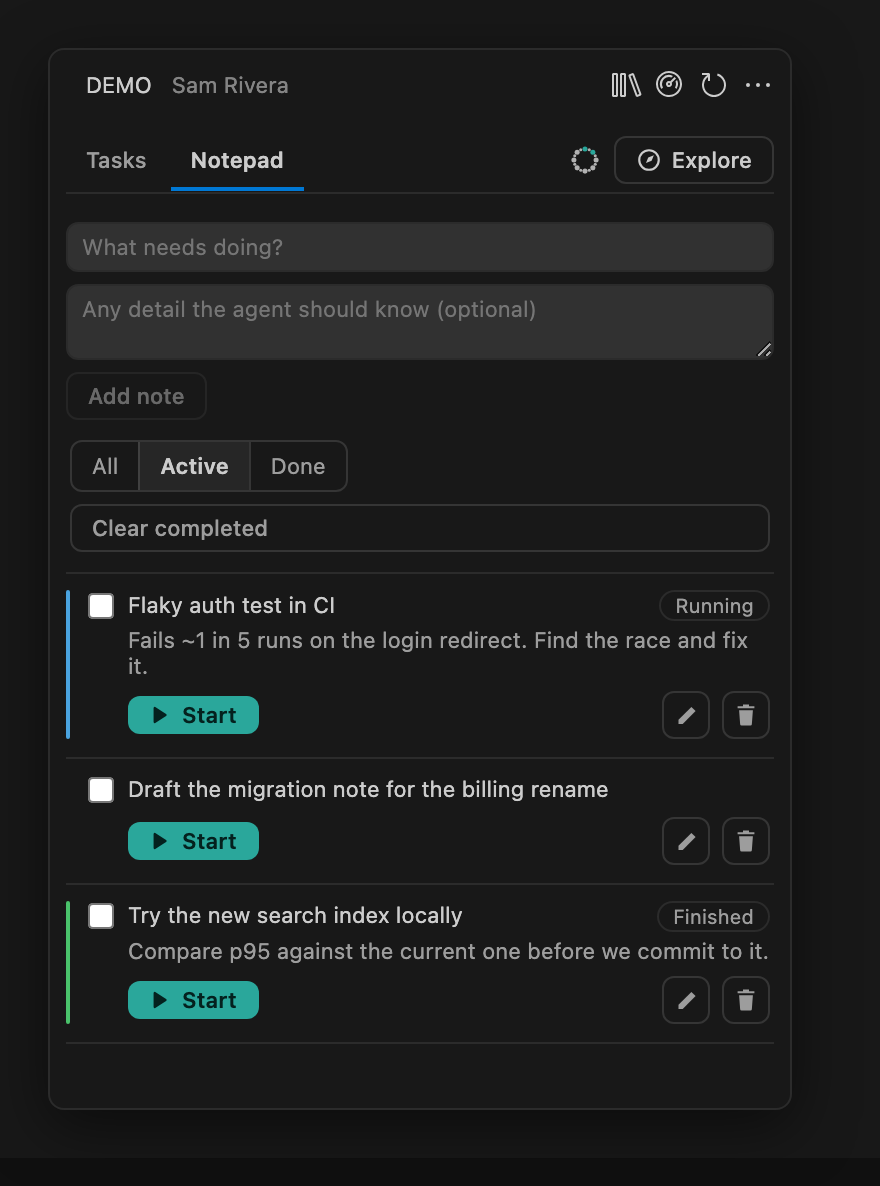
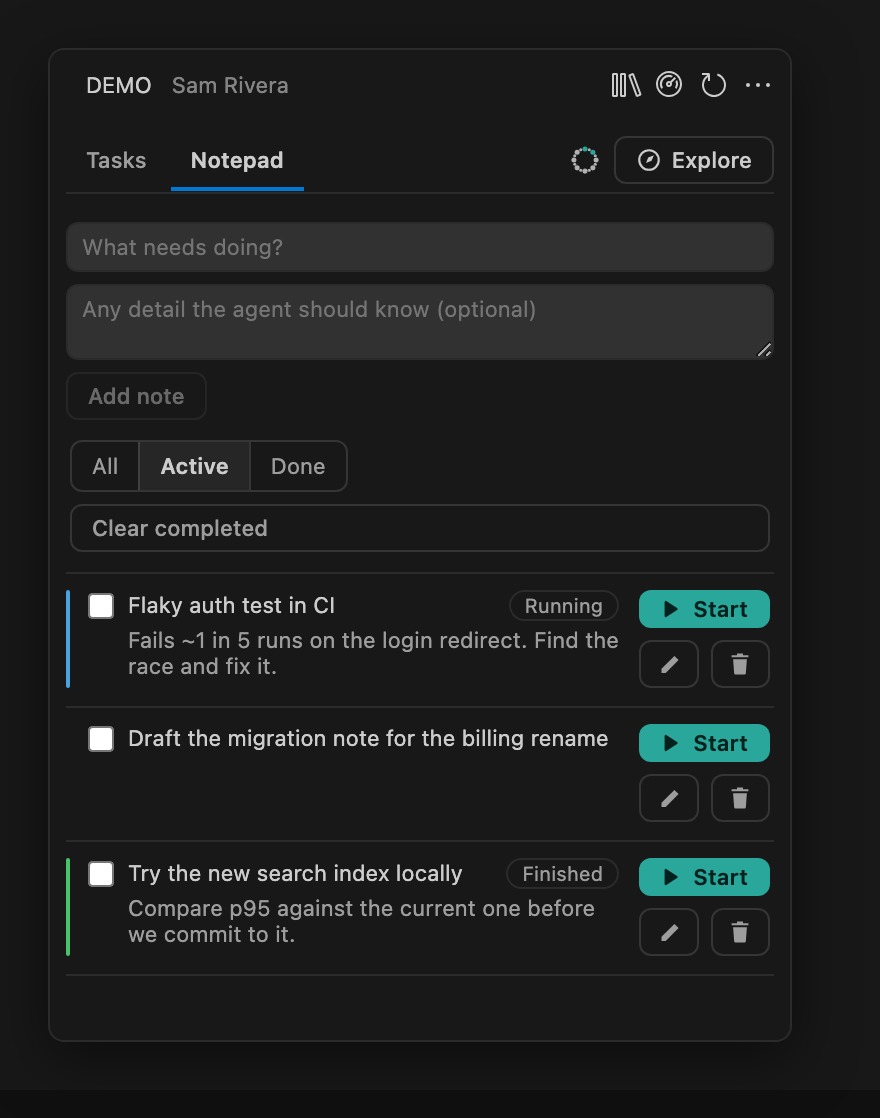
chore: release 0.13.1
Also reshoots media/notepad.png, which still showed Start level with the edit and
delete buttons, and rewords its alt text to match the cluster's new corner.

diff --git a/README.md b/README.md
@@ -78,7 +78,7 @@ Claude-only say so.
 Not everything worth an agent has a Jira key. The panel's second tab, **Notepad**, is a
 plain list of things you want to do: a title, optional detail, a checkbox.
 
-<img src="media/notepad.png" alt="The Notepad tab of the Agent Flow Deck sidebar panel: an add-note form (title field, detail textarea, Add note button), an All / Active / Done segmented filter with a Clear completed button beside it, and three notes. Each note has a done checkbox, its title and detail, and a filled Start button with quiet edit and delete icon buttons; one note carries a blue rail and a Running badge, another a green rail and a Finished badge." width="420" />
+<img src="media/notepad.png" alt="The Notepad tab of the Agent Flow Deck sidebar panel: an add-note form (title field, detail textarea, Add note button), an All / Active / Done segmented filter with a Clear completed button beside it, and three notes. Each note has a done checkbox, its title and detail, and — in its top right corner — a filled Start button above quiet edit and delete icon buttons that together span Start's width; one note carries a blue rail and a Running badge, another a green rail and a Finished badge." width="420" />
 
 - **Notes are yours, not the workspace's.** They're stored in the editor's global state,
   not per-workspace, so the same list is there whichever repo or workspace the panel

diff --git a/CHANGELOG.md b/CHANGELOG.md
@@ -7,6 +7,20 @@ and this project adheres to [Semantic Versioning](https://semver.org/spec/v2.0.0
 
 ## [Unreleased]
 
+## [0.13.1] — 2026-08-12
+
+### Fixed
+
+- **A Notepad note reads as text beside its actions.** Start sat level with — and no wider
+  than — the edit and delete buttons that follow it, and the cluster stretched under the
+  note's text, leaving every title with a dead band of empty card to its right. Start now
+  sits above the pair, which spans exactly Start's width, and the cluster holds the note's
+  top right corner while the text takes the width it leaves.
+- **A long note title wraps instead of running off the panel.** A dictated or pasted title
+  can be one unbroken string, which offered nothing to wrap on and overflowed the sidebar's
+  right edge. Both the title and the body now break mid-string when they have to, and
+  neither is ever truncated.
+
 ## [0.13.0] — 2026-08-11
 
 ### Added
